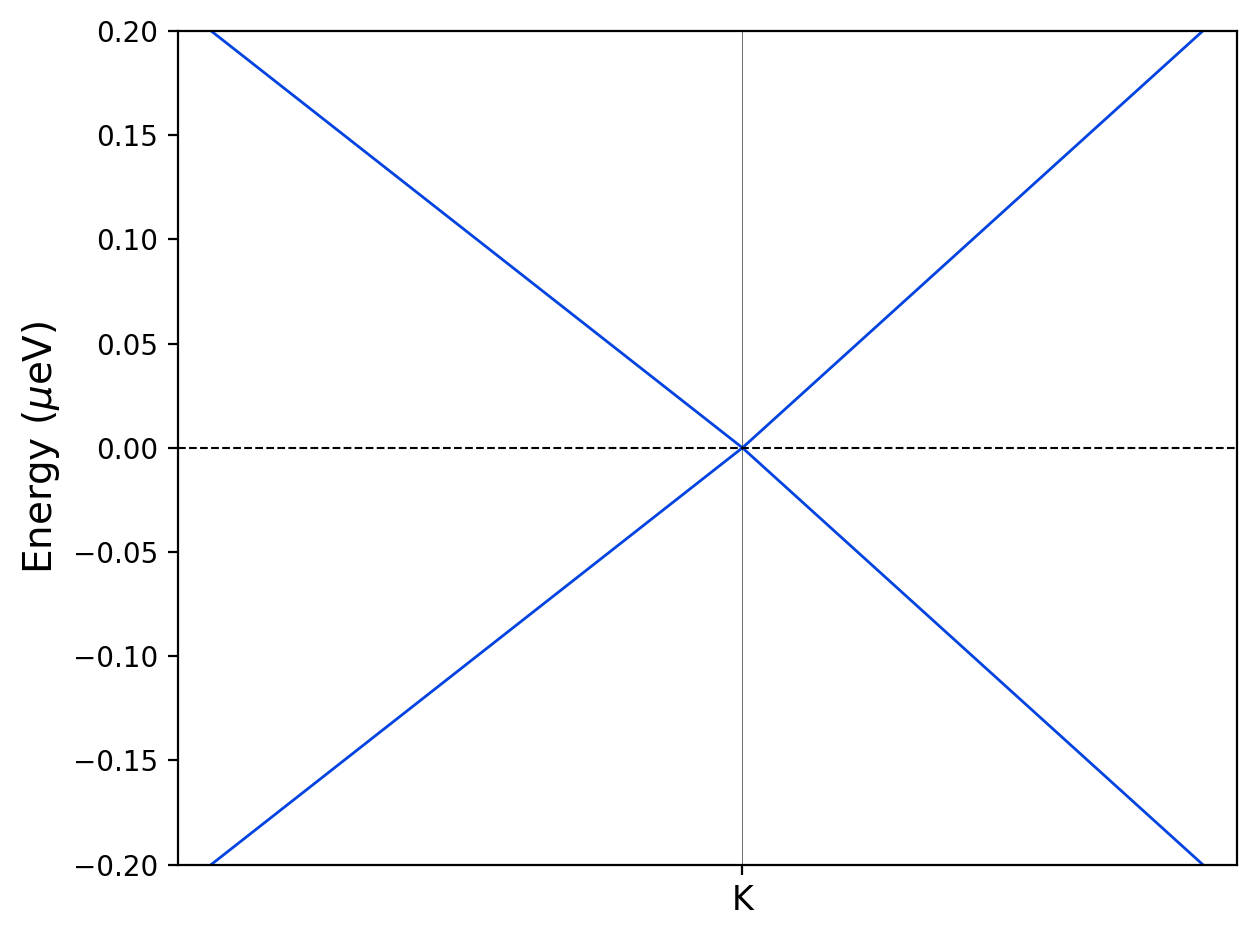
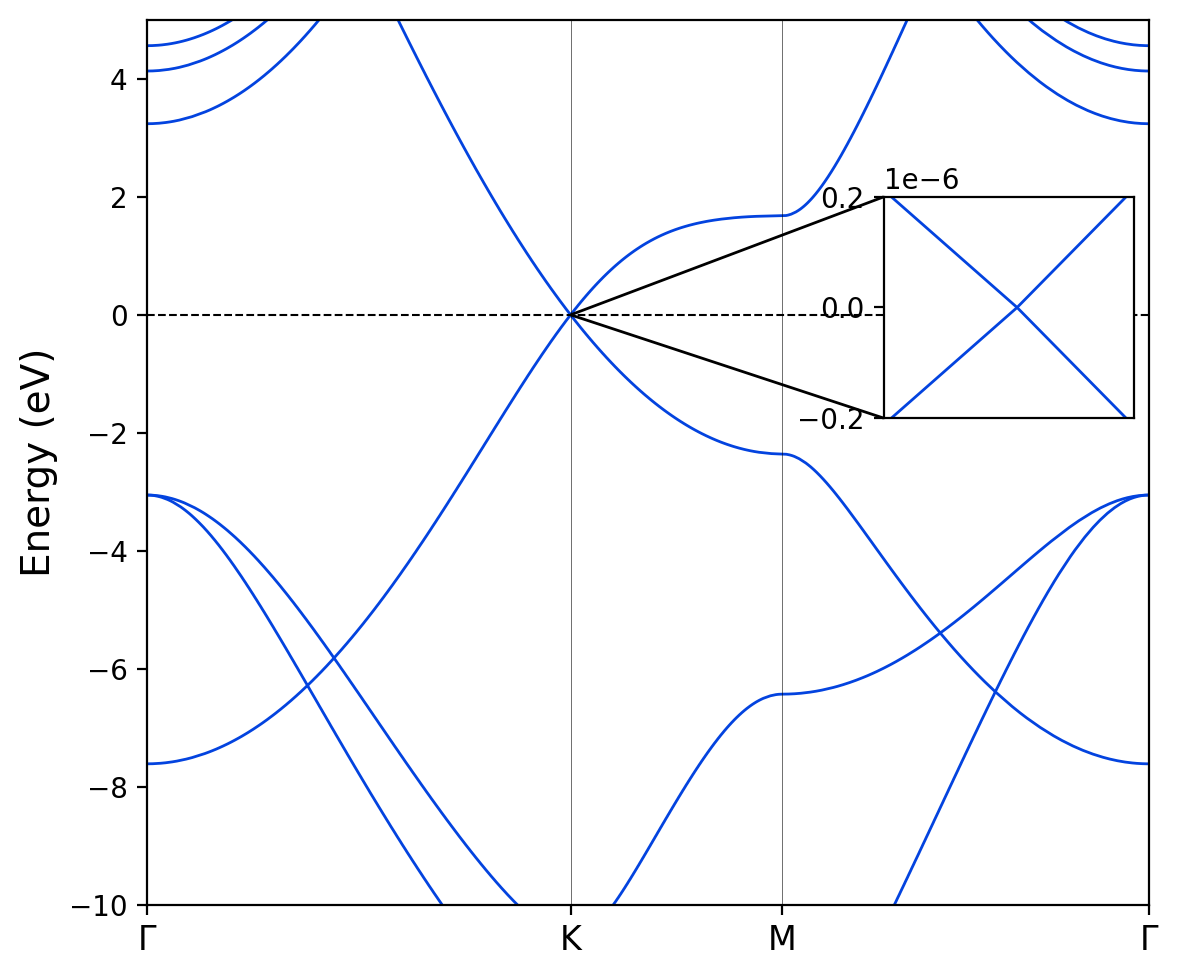
Add new folder and files

diff --git a/DFT_calculations/3.SOC_intrinsic/PBE/band_pp/inset.py b/DFT_calculations/3.SOC_intrinsic/PBE/band_pp/inset.py
@@ -1,0 +1,65 @@
+#!/usr/bin/env python3
+# Written by Joseph P.Vera
+# 2024-11
+
+import numpy as np
+import matplotlib.pyplot as plt
+from mpl_toolkits.axes_grid1.inset_locator import inset_axes, mark_inset
+
+data = np.loadtxt('graphene_bands.dat.gnu')
+
+k = np.unique(data[:, 0])
+bands1 = np.reshape(data[:, 1], (-1, len(k)))
+
+EFermi = -1.72384057
+bands = bands1 - EFermi
+
+fig, ax = plt.subplots(figsize=(6,5))
+
+# Main plot
+for band in range(len(bands)):
+    ax.plot(k, bands[band, :], linewidth=1, color='xkcd:blue')
+
+ax.set_xlim(min(k), max(k))
+ax.set_ylim(-10, 5)
+
+# Fermi energy
+ax.axhline(0, linestyle='--', linewidth=0.75, color='xkcd:black')
+
+# High symmetry k-points
+plt.axvline(0.66666667, linewidth=0.2, color='xkcd:black')
+plt.axvline(1.00000000, linewidth=0.2, color='xkcd:black')
+
+ax.set_xticks([0, 0.66666667, 1.00000000, 1.57735027])
+ax.set_xticklabels([r'$\Gamma$', 'K', 'M', r'$\Gamma$'], fontsize=12)
+
+ax.set_ylabel('Energy (eV)', fontsize=14)
+
+# --------------------------------------------------
+# Inset
+# --------------------------------------------------
+axins = ax.inset_axes([0.735, 0.55, 0.25, 0.25]) # [x, y, ancho, alto]
+#axins = inset_axes(ax, width="25%", height="25%", loc="center right")
+
+ax.text(1.34, 2.1, r'~24 $\mu$eV', fontsize=12, color='red') # in main plot
+
+for band in range(len(bands)):
+    axins.plot(k, bands[band, :], linewidth=1, color='xkcd:blue')
+
+# Zoomed region
+axins.set_xlim(0.66666650, 0.66666684)
+axins.set_ylim(-0.000015, 0.000015)
+axins.ticklabel_format(axis='y', style='sci', scilimits=(-6, -6))
+
+#axins.text(0.0000001, 0.0000001, r'~24 $\mu$eV', fontsize=12) # inside the inset
+
+# Optional: remove tick labels
+axins.tick_params(axis='both', which='both', bottom=False, top=False,
+    left=True, right=False, labelbottom=False, labelleft=True)
+
+# Draw box and connecting lines
+mark_inset(ax, axins, loc1=2, loc2=3, fc="none", ec="black", lw=1)
+
+plt.tight_layout()
+plt.savefig("graphene-soc.png", dpi=200, bbox_inches='tight')
+#plt.show()

diff --git a/DFT_calculations/2.pristine/PBE/Calculation-1/band_pp/inset.py b/DFT_calculations/2.pristine/PBE/Calculation-1/band_pp/inset.py
@@ -1,0 +1,63 @@
+#!/usr/bin/env python3
+# Written by Joseph P.Vera
+# 2024-11
+
+import numpy as np
+import matplotlib.pyplot as plt
+from mpl_toolkits.axes_grid1.inset_locator import inset_axes, mark_inset
+
+data = np.loadtxt('graphene_bands.dat.gnu')
+
+k = np.unique(data[:, 0])
+bands1 = np.reshape(data[:, 1], (-1, len(k)))
+
+EFermi = -1.7235
+bands = bands1 - EFermi
+
+fig, ax = plt.subplots(figsize=(6,5))
+
+# Main plot
+for band in range(len(bands)):
+    ax.plot(k, bands[band, :], linewidth=1, color='xkcd:blue')
+
+ax.set_xlim(min(k), max(k))
+ax.set_ylim(-10, 5)
+
+# Fermi energy
+ax.axhline(0, linestyle='--', linewidth=0.75, color='xkcd:black')
+
+# High symmetry k-points
+ax.axvline(0.6667, linewidth=0.2, color='xkcd:black')
+ax.axvline(1.0000, linewidth=0.2, color='xkcd:black')
+
+ax.set_xticks([0, 0.6667, 1.0000, 1.5774])
+ax.set_xticklabels([r'$\Gamma$', 'K', 'M', r'$\Gamma$'], fontsize=12)
+
+ax.set_ylabel('Energy (eV)', fontsize=14)
+
+# --------------------------------------------------
+# Inset
+# --------------------------------------------------
+axins = ax.inset_axes([0.735, 0.55, 0.25, 0.25]) # [x, y, ancho, alto]
+#axins = inset_axes(ax, width="25%", height="25%", loc="center right")
+
+#ax.text(1.35, 2.05, r'~10$^{-6}$', fontsize=12)
+
+for band in range(len(bands)):
+    axins.plot(k, bands[band, :], linewidth=1, color='xkcd:blue')
+
+# Zoomed region
+axins.set_xlim(0.666699984, 0.666700014)
+axins.set_ylim(-2e-7, 2e-7)
+axins.ticklabel_format(axis='y', style='sci', scilimits=(-6, -6))
+
+# Optional: remove tick labels
+axins.tick_params(axis='both', which='both', bottom=False, top=False,
+    left=True, right=False, labelbottom=False, labelleft=True)
+
+# Draw box and connecting lines
+mark_inset(ax, axins, loc1=2, loc2=3, fc="none", ec="black", lw=1)
+
+plt.tight_layout()
+plt.savefig("graphene.png", dpi=200, bbox_inches='tight')
+#plt.show()

diff --git a/DFT_calculations/3.SOC_intrinsic/PBE/band_pp/bandplot.py b/DFT_calculations/3.SOC_intrinsic/PBE/band_pp/bandplot.py
@@ -29,7 +29,7 @@ plt.xticks(ticks= [0, 0.66666667, 1.00000000, 1.57735027], labels=[r'$\Gamma$', 
 plt.ylabel(r'Energy ($\mu$eV)', fontsize=14)
 #plt.ylim(-10, 5)
 
-plt.xlim(0.66666660, 0.66666674)
+plt.xlim(0.66666650, 0.66666684)
 plt.ylim(-0.000015, 0.000015)
 
 
